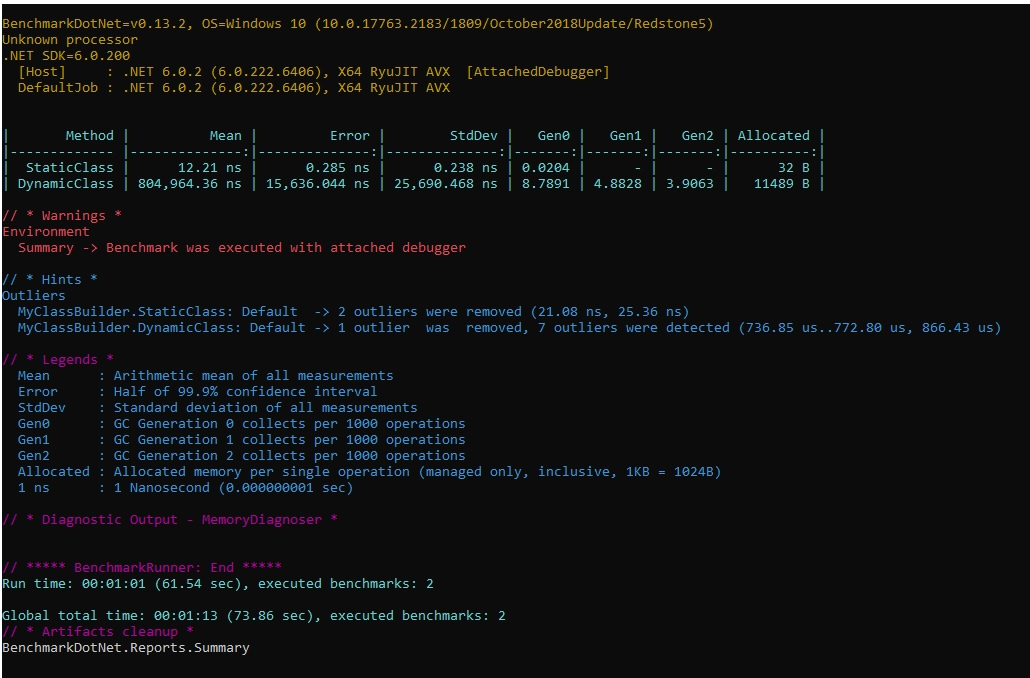
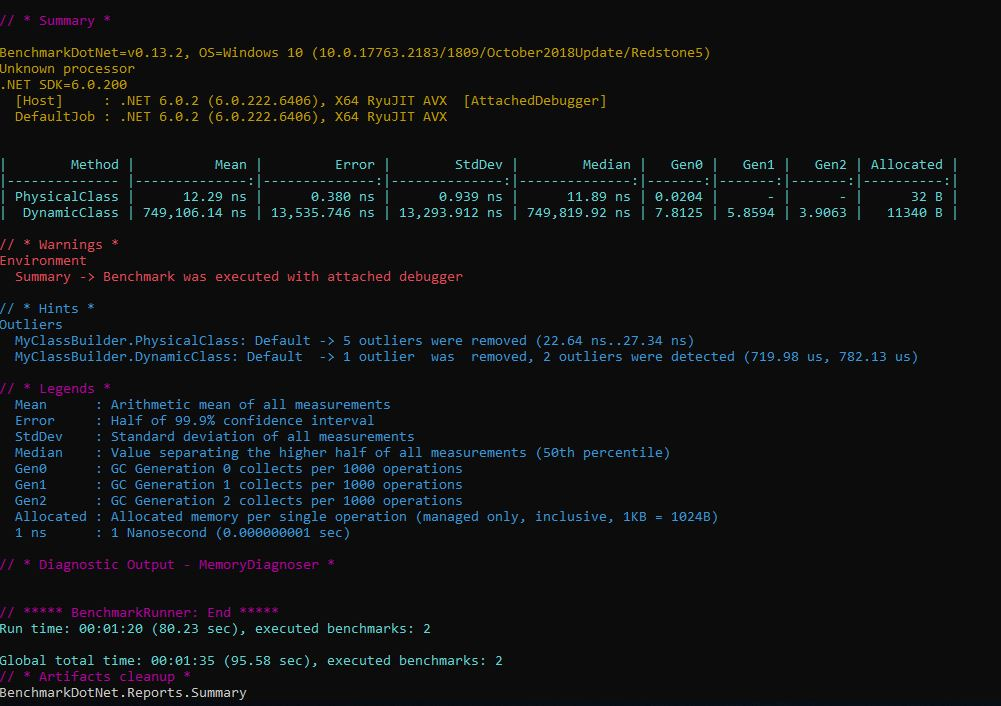
clean code

Changed region(s): [[0.0, 0.0, 1.0, 0.9912]]

diff --git a/CreateClassWithReflection/MyClassBuilder.cs b/CreateClassWithReflection/MyClassBuilder.cs
@@ -15,9 +15,9 @@ namespace CreateClassWithReflection
         }
 
         [Benchmark]
-        public object StaticClass()
+        public object PhysicalClass()
         {
-            return new StaticPerson { Id = 1, Name = "Hossein" };
+            return new PhysicalPerson { Id = 1, Name = "Hossein" };
         }
 
         [Benchmark]
@@ -29,6 +29,7 @@ namespace CreateClassWithReflection
                   new Type[] { typeof(int), typeof(string) },
                   new object[] { 1, "Hossein" });
         }
+
         /// <summary>
         /// build dynamic class in run time
         /// </summary>

diff --git a/CreateClassWithReflection/Model/PhysicalPerson.cs b/CreateClassWithReflection/Model/PhysicalPerson.cs
@@ -1,6 +1,6 @@
 namespace CreateClassWithReflection.Model
 {
-    public class StaticPerson
+    public class PhysicalPerson
     {
         public string Name { get; set; }
         public int Id { get; set; }
